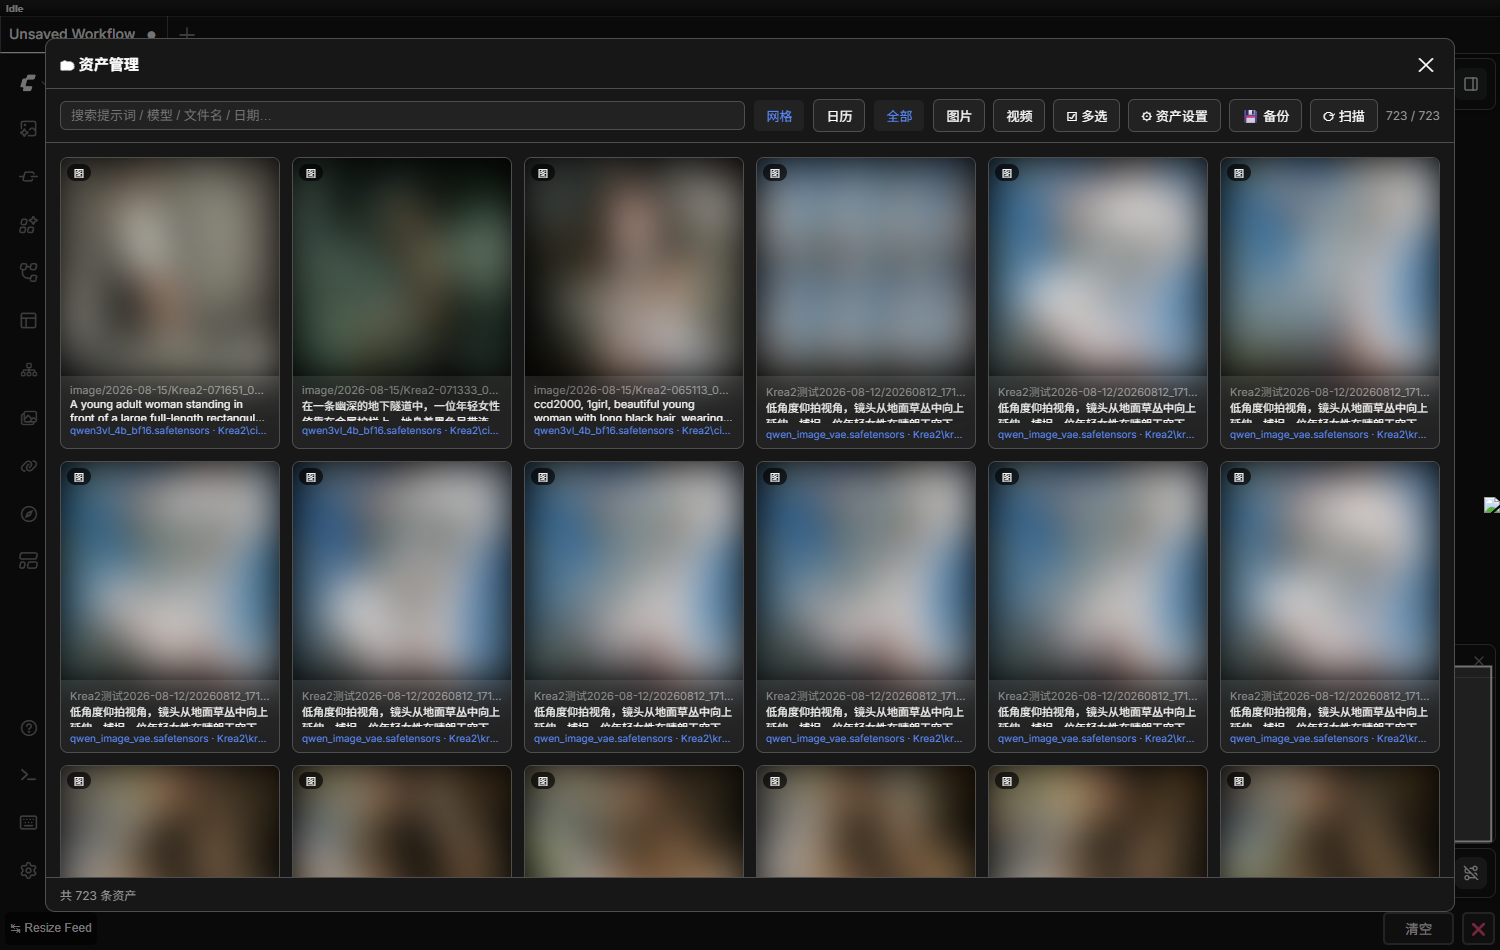
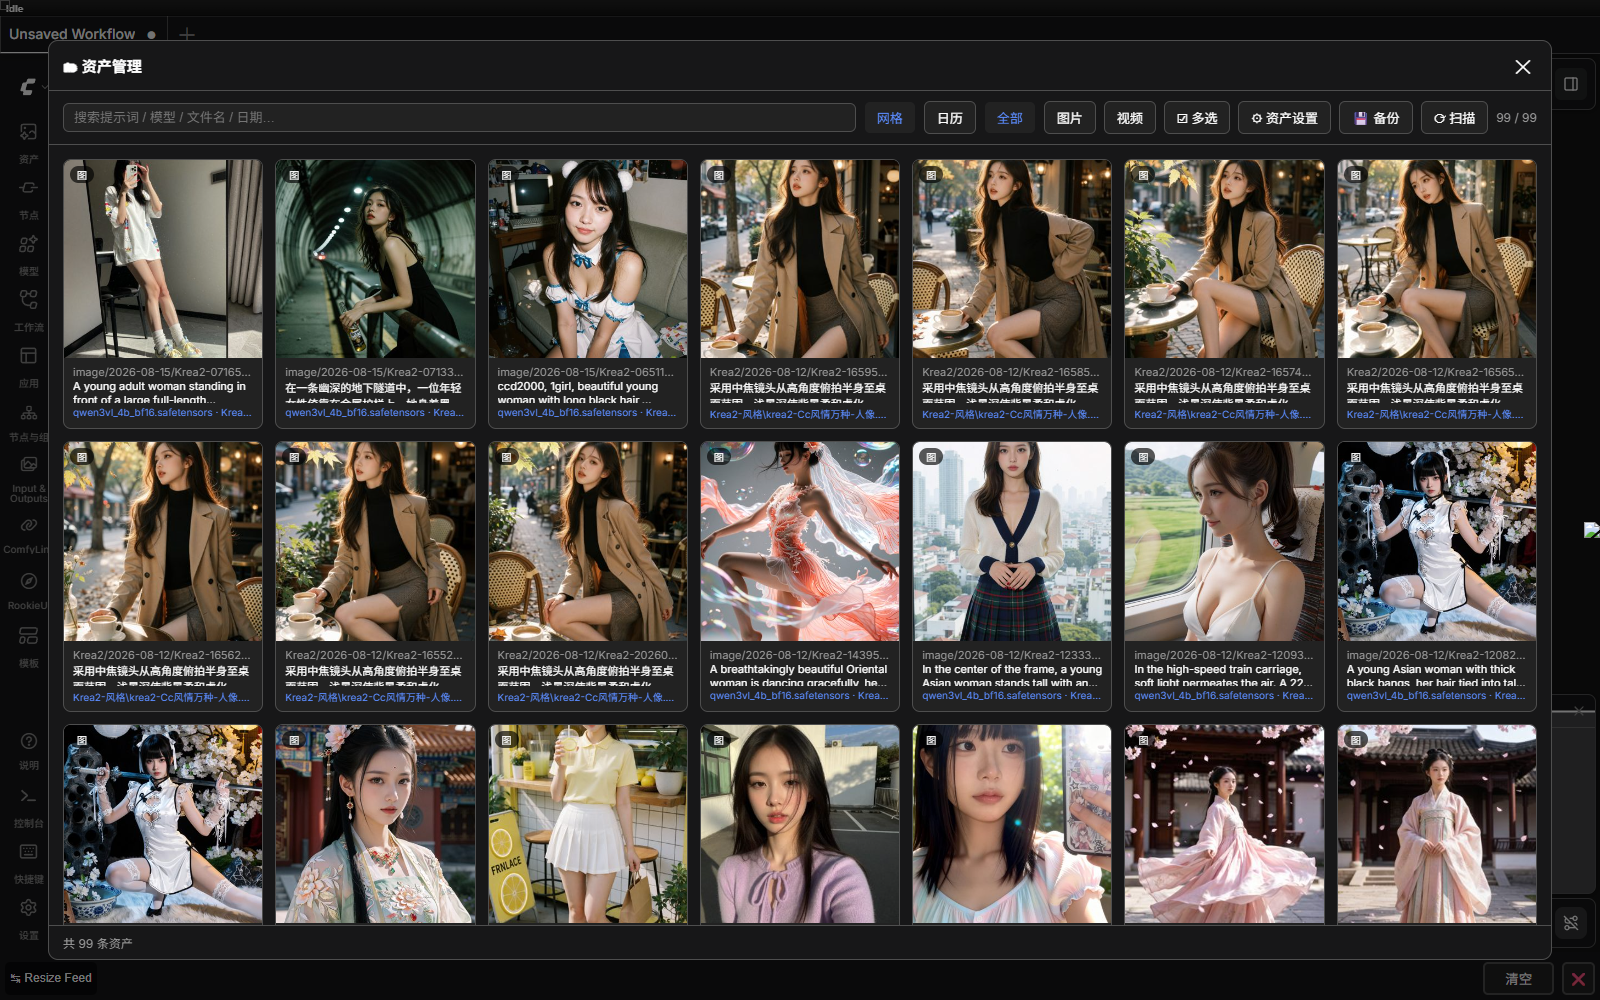
docs: regenerate screenshots (SFW) and update repo URLs to Wumihaze

diff --git a/README.md b/README.md
@@ -31,8 +31,6 @@
 |---|---|---|
 | ![预览](assets/screenshots/03-preview.png) | ![设置](assets/screenshots/04-settings.png) | ![目录](assets/screenshots/05-browse-dir.png) |
 
-> 缩略图已做模糊处理（隐藏实际生成内容）。
-
 ## 📦 安装
 
 ### 方法一：ComfyUI-Manager（推荐）
